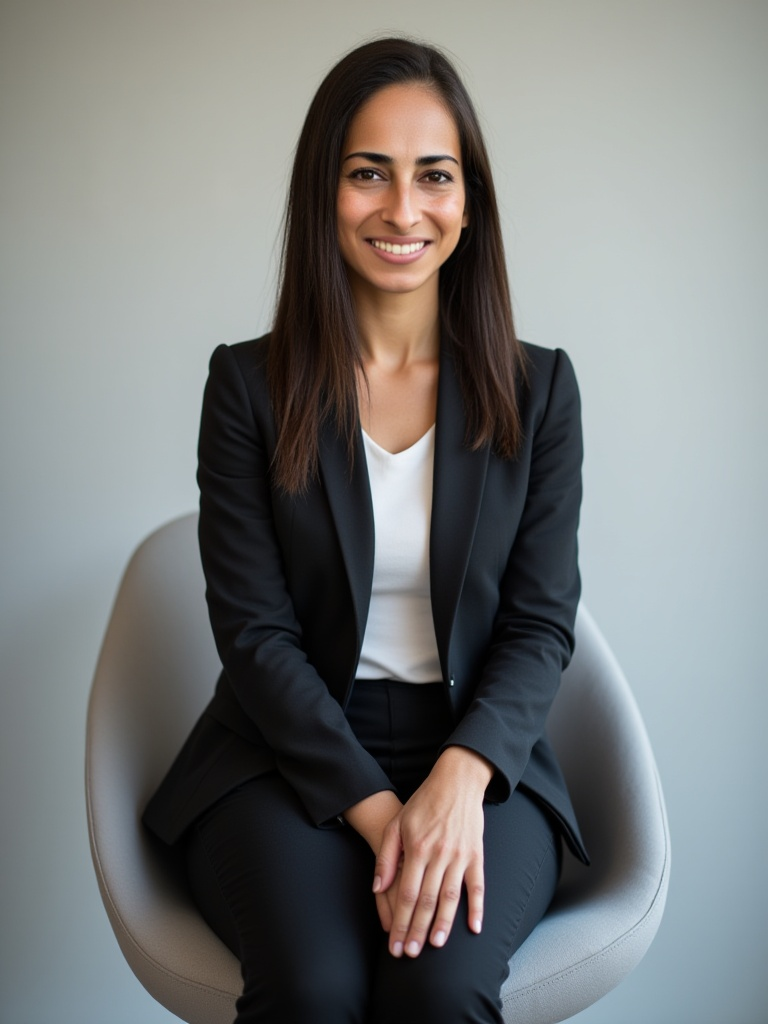
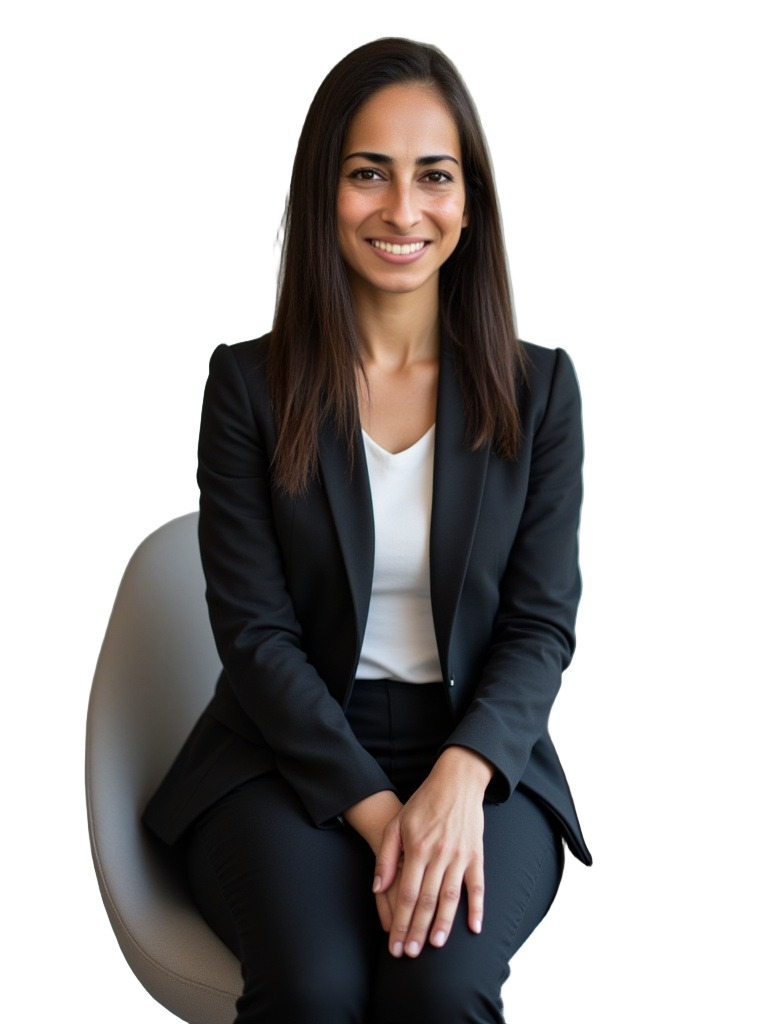
feat: updated Mahmoud photo (B&W stool) + Tiba white background

diff --git a/src/app/[locale]/who-we-are/page.tsx b/src/app/[locale]/who-we-are/page.tsx
@@ -50,7 +50,7 @@ export default function WhoWeArePage() {
           <Divider className="mb-10" />
           <FounderBio
             name="Mahmoud Gao"
-            image="/images/mahmoud-headshot.jpg"
+            image="/images/mahmoud-headshot-v2.jpg"
             alt="Mahmoud Gao, co-founder of TMG Strategy"
             bio={mahmoudBio}
           />
